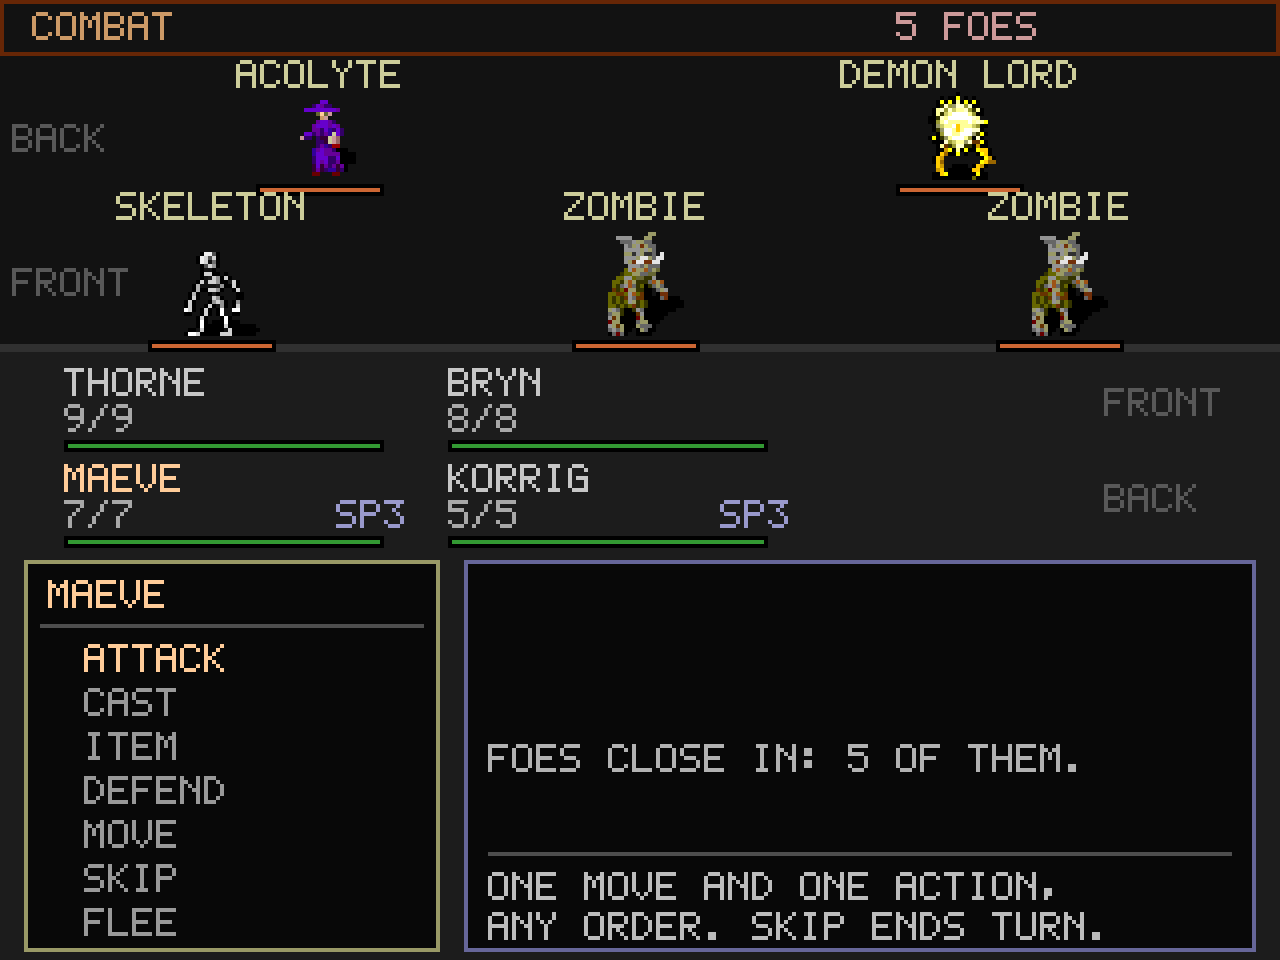
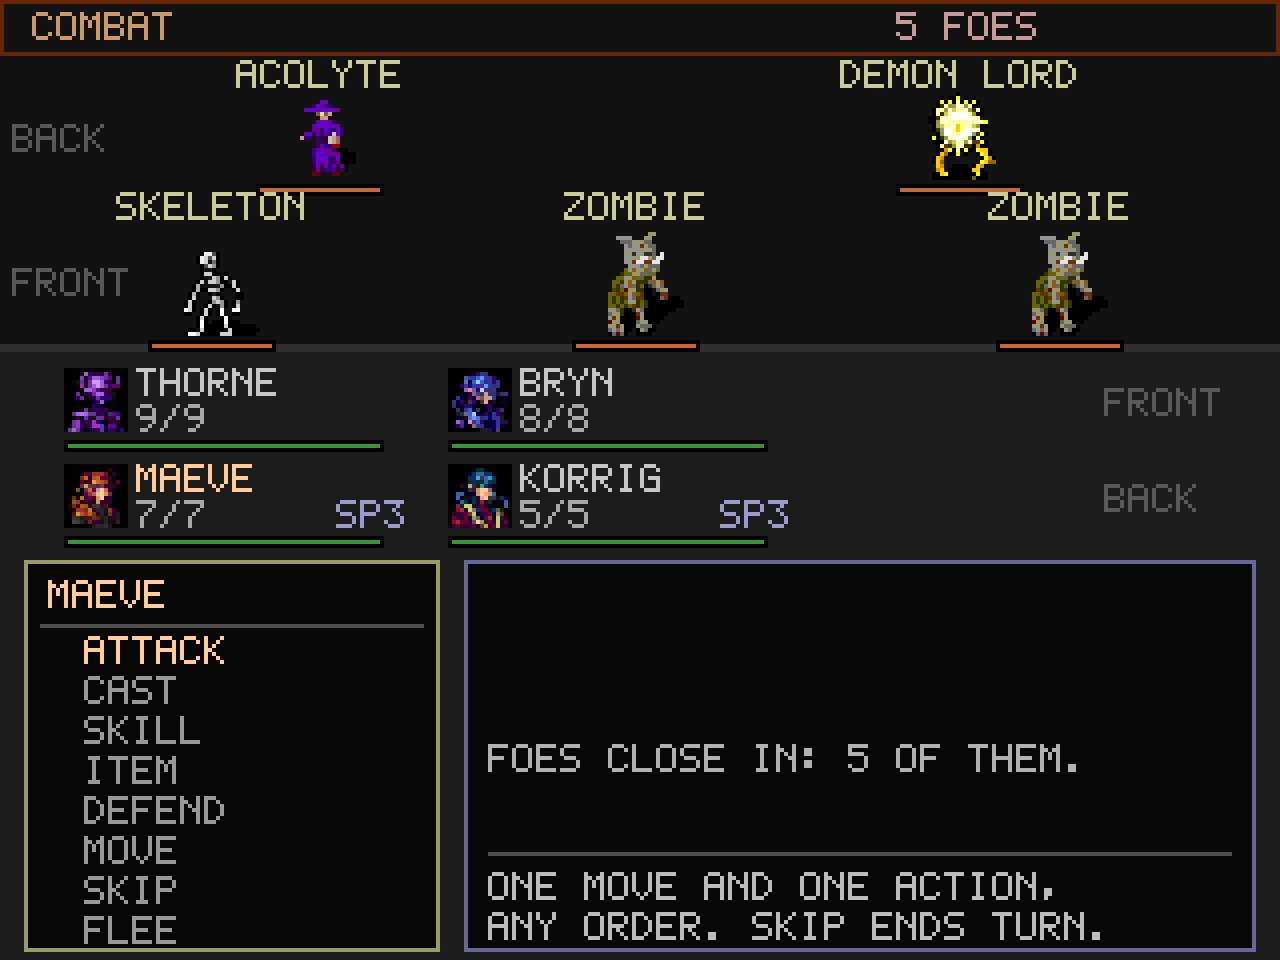
Document the skills system
Record the finished feature across the docs. The changelog gains an
Added entry covering acquisition, the exploration checks, and the
combat maneuvers. The README features blurb and module table name the
skilldb, skilltext, skillbook and skillicon units. The roadmap closes
the skills gap in theme C and the skill half of the icons item in theme
D. CREDITS adds the "250 WARRIOR ICONS" pack with a confirm-terms note.
The combat screenshot is regenerated to show the SKILL command.

Changed region(s): [[0.0625, 0.6562, 0.1875, 1.0], [0.0312, 0.375, 0.2188, 0.5625], [0.3438, 0.375, 0.5312, 0.5625]]

diff --git a/docs/roadmap.md b/docs/roadmap.md
@@ -130,13 +130,18 @@ Tags: [gap] not started, [partial] exists but incomplete, [done] complete,
   shelter behind one big one (up to eight tiny behind a single large). This
   gates the combat MOVE between ranks and the initial encounter layout.
 
-- [gap] A skills system. Design task first: what a skill is (an active or
-  passive non-spell ability a character gains and uses), the available list,
-  how skills are gained (by class, level, or training) and spent in and out of
-  combat, and how they sit beside spells in the data and the save. Loosely map
-  the available "250 WARRIOR ICONS" art (~/Documents/sprites-free) to the list
-  so martial classes get iconography the way casters get spell icons. Needs its
-  own plan before any code; the icon UI work is tracked under section D.
+- [done] A skills system, the martial counterpart to spells. A skill is a
+  non-spell ability trained with proficiency slots (2e NWP style): a character
+  banks slots at creation and on level-up, generous for the thief kit, and
+  spends them on a learn-a-skill screen to learn a skill or rank one up.
+  Skills split by arena. Exploration skills roll a d20 check in the world (pick
+  locks, find traps, move silently, first aid); combat maneuvers resolve in a
+  fight through a SKILL command and cost no resource, the strongest limited to
+  a few uses per encounter (power attack, disarm, shield bash, aimed shot,
+  rally). Data-driven in content/skills.txt, baked to a SKIL lump by the
+  skilltext parser and loaded by the skilldb unit; the rules live in skillbook.
+  Skills and unspent slots are saved per character (save version 14). The
+  "250 WARRIOR ICONS" art is mapped per skill, tracked under section D below.
 
 - [done] Imported the axx-rpg spell lists. All 170 spells from
   ~/Vibe/axx-rpg/src/sup/spells.csv (Cleric, Druid, Magic-User across six
@@ -227,14 +232,15 @@ Tags: [gap] not started, [partial] exists but incomplete, [done] complete,
   and for a caster a spell browser that lists its known spells with icons. The
   combat party panel now shows each member's face beside its name and bars, and
   P on the character sheet repicks a member's face in play.
-- [partial] Spell and skill icons, and the UI that uses them. Done: every spell
-  in the catalog names a per-spell icon from the Batareya "MAGE ICONS BIG PACK"
-  (an icon line in spells.txt, baked to SI<NN> lumps), and the icons now draw
-  everywhere a caster meets its spells: the character sheet's spell browser, the
-  SPELLS tab, the learn-a-spell screen, and the combat cast menu. Still open:
-  the skill side, the "250 WARRIOR ICONS" pack per skill, which waits on the
-  skills system below. The mage-pack license is still to be confirmed against
-  its itch.io page.
+- [done] Spell and skill icons, and the UI that uses them. Every spell in the
+  catalog names a per-spell icon from the Batareya "MAGE ICONS BIG PACK" (an
+  icon line in spells.txt, baked to SI<NN> lumps), drawn everywhere a caster
+  meets its spells: the character sheet's spell browser, the SPELLS tab, the
+  learn-a-spell screen, and the combat cast menu. Each skill likewise names an
+  icon from the Batareya "250 WARRIOR ICONS" pack (baked to WI<N> lumps),
+  drawn on the character sheet's skills list, the learn-a-skill screen, and the
+  combat SKILL menu. Both pack licenses are still to be confirmed against their
+  itch.io pages before release.
 
 ### E. Shipping targets (design sections 23 and 24)
 

diff --git a/README.md b/README.md
@@ -98,6 +98,17 @@ spells and bows strike over them.
   barred from its opposition schools but for Lesser Divination, knowing one
   extra spell, and casting its own school at a steeper save. The Wizard and the
   other mage classes stay generalists with the whole list.
+- A skills system, the martial side of spells. A character trains non-spell
+  abilities with proficiency slots, banked at creation and on level-up and
+  generous for the thief kit, spent on a learn-a-skill screen (press T on the
+  character sheet) to learn a skill or rank it up. Exploration skills roll a
+  d20 check in the world: a party lockpick opens a locked door, a trapfinder
+  disarms a trap before it springs, a quiet party slips past a wandering foe,
+  and First Aid mends a member between rests. Combat maneuvers resolve in a
+  fight through a SKILL command and cost no resource: Power Attack, Disarm,
+  Shield Bash, Aimed Shot, and Rally, with the strongest limited to a few uses
+  per encounter. Each skill carries a pixel icon, shown on the sheet, the learn
+  screen, and the combat menu. Trained skills and unspent slots are saved.
 - Save and load of the whole game, including the party, gold, flags, journal,
   position and the explored fog of every visited map.
 - Roguelike dynamic maps (rooms, caves, mazes) generated from a seed. The
@@ -206,6 +217,7 @@ The platform layer and core:
 | `src/pic.pas` | Custom image codec (PackBits, direct or indexed colour). |
 | `src/pcportrait.pas` | Player-character portrait pool: cache and keyed blits. |
 | `src/spellicon.pas` | Spell icon pool: cache and scaled keyed blits. |
+| `src/skillicon.pas` | Skill icon pool: cache and scaled keyed blits. |
 | `src/game.pas` | Top-level state machine: routes input, update and render. |
 | `src/gamestate.pas` | Shared cross-state globals for the UI units. |
 
@@ -258,6 +270,8 @@ Gameplay systems and content tables (each `*text` unit is the tool-side parser):
 | `src/dialog.pas` / `src/dialogtext.pas` | Conversation data, decoder and runtime. |
 | `src/spelldb.pas` / `src/spelltext.pas` | Spell catalog, decoder and table codec. |
 | `src/spellbook.pas` | Known spells: the per-caster learned list and its rules. |
+| `src/skilldb.pas` / `src/skilltext.pas` | Skill catalog, decoder and table codec. |
+| `src/skillbook.pas` | Trained skills: proficiency slots, ranks and checks. |
 | `src/flags.pas` | Story flags and the quest journal. |
 | `src/codex.pas` | Bestiary and item identification knowledge. |
 | `src/save.pas` | Save and load of the whole game to a file. |

diff --git a/CHANGELOG.md b/CHANGELOG.md
@@ -10,6 +10,21 @@ whose development history is summarized in docs/roadmap.md.
 ## [Unreleased]
 
 ### Added
+- A skills system, the martial counterpart to spells. Characters train
+  non-spell abilities with proficiency slots, banked at creation and on
+  level-up and generous for the thief kit, and spent on a learn-a-skill screen
+  reached with T on the character sheet. Spending a slot on a known skill ranks
+  it up. Exploration skills work in the world: a party lockpick opens a locked
+  door, a trapfinder disarms a trap before it springs, a quiet party slips past
+  a wandering foe, and First Aid mends a wounded member between rests. Combat
+  maneuvers work in a fight, through a new SKILL command: Power Attack trades
+  accuracy for a heavier blow, Disarm knocks a foe off balance, Shield Bash can
+  stun, Aimed Shot steadies a ranged attack, and Rally lifts the party's fear.
+  Maneuvers cost no resource, faithful to AD&D: the strongest are limited to a
+  few uses per fight, reset each encounter. Skills are data-driven in
+  skills.txt, baked to a SKIL lump, with per-skill icons from the "250 WARRIOR
+  ICONS" pack baked to WI<N> lumps. The save format carries each character's
+  trained skills and unspent slots (version 14).
 - Casting outside combat. From the SPELLS tab a caster can now work a spell's
   out-of-combat effect while exploring: heal and raise a hurt member, lift
   poison, disease and curses, refuel the party light, read the magic on carried
